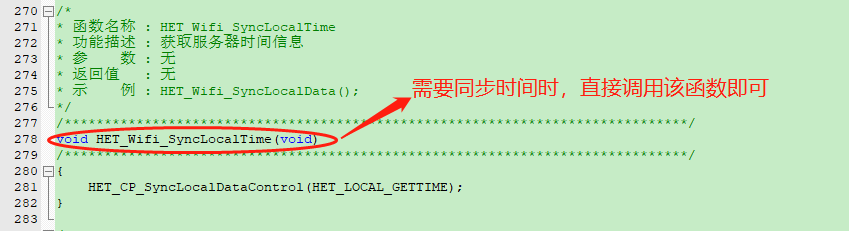
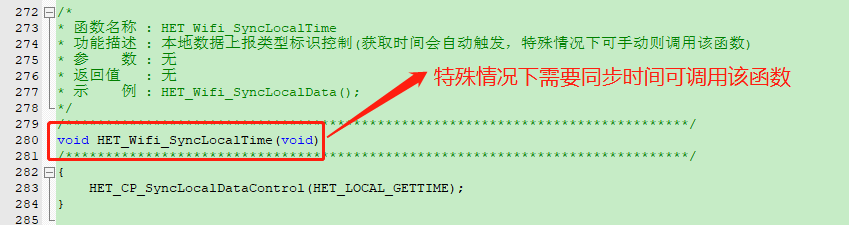
同步本地时间函数改动

Changed region(s): [[0.0, 0.0311, 0.9494, 1.0], [0.0919, 0.7778, 0.5512, 0.8711]]

diff --git a/source/zh-cn/device/mcu/mcu_framework.md b/source/zh-cn/device/mcu/mcu_framework.md
@@ -238,11 +238,14 @@ xxx_xxx_数值_累计耗电量(累计耗电量)
 ##### 4.2.3.10 主动获取本地时间函数
 	void HET_Wifi_SyncLocalTime(void)
 函数名称：HET_Wifi_SyncLocalTime   
-功能描述：本地数据上报类型标识控制   
+功能描述：本地数据上报类型标识控制(获取时间会自动触发，特殊情况下可手动则调用该函数)   
 参数：无   
 返回值：无 
 ##### 示例如下：
 ![](/assets/mcu/GetTime.png)  
+除NB模块之外其他模块同步时间指令会自动发送，同步周期在初始化函数中设置，如下图：   
+![](/assets/mcu/GetTimeInit.png)  
+
 
 ##### 4.2.3.11 获取网络状态函数
 	TE_HET_NET_STATUS HET_CP_GetNetStatus(void)
